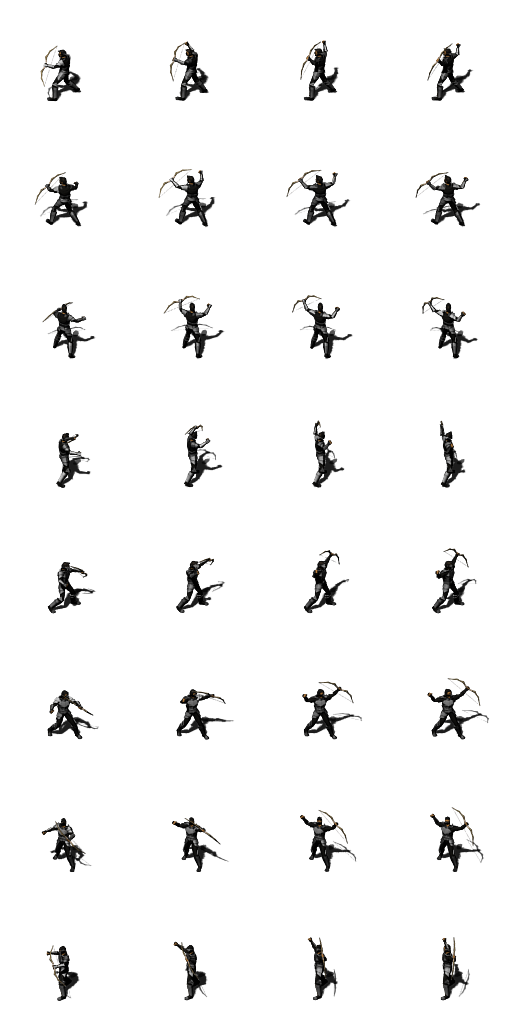
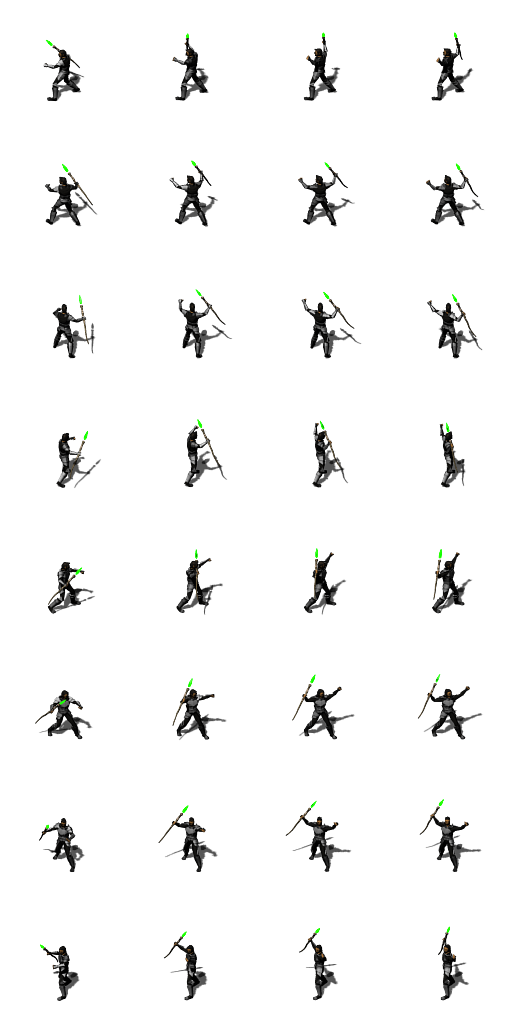
Lucas: agrego wand views

diff --git a/TpTaller/src/view/entities/PlayerView.cpp b/TpTaller/src/view/entities/PlayerView.cpp
@@ -513,7 +513,11 @@ void PlayerView::Show(SDL_Surface* fondo, bool drawFog) {
 	 *	spriteMap=selectWeaponView(this->player);
 	 *
 	 */
-	spriteMap = weaponViewMap[string("sword")];
+	if (player->getCurrentWeapon()->getName()=="FrostWand")
+		spriteMap = weaponViewMap[string("bow")];
+	else
+		spriteMap = weaponViewMap[string("sword")];
+
 
 	FoggedSprite spriteToBeShown;
 
